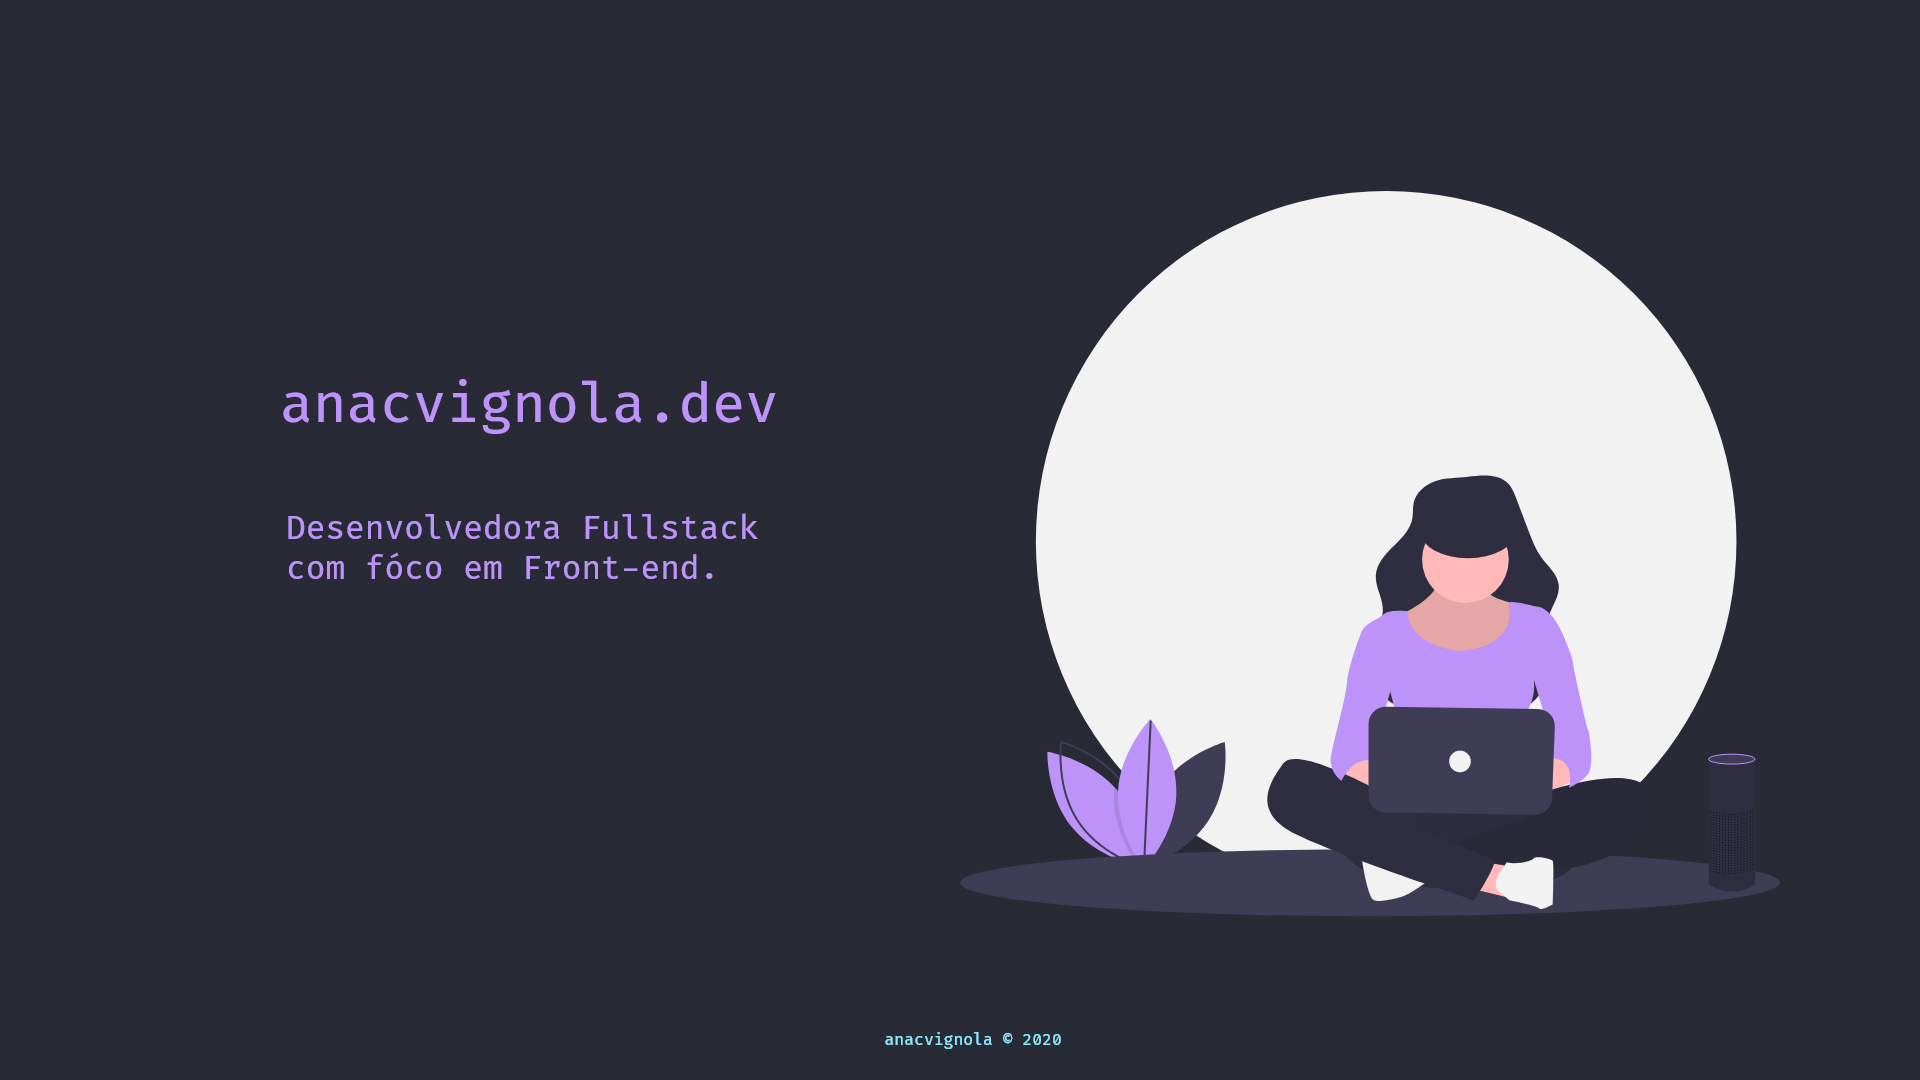
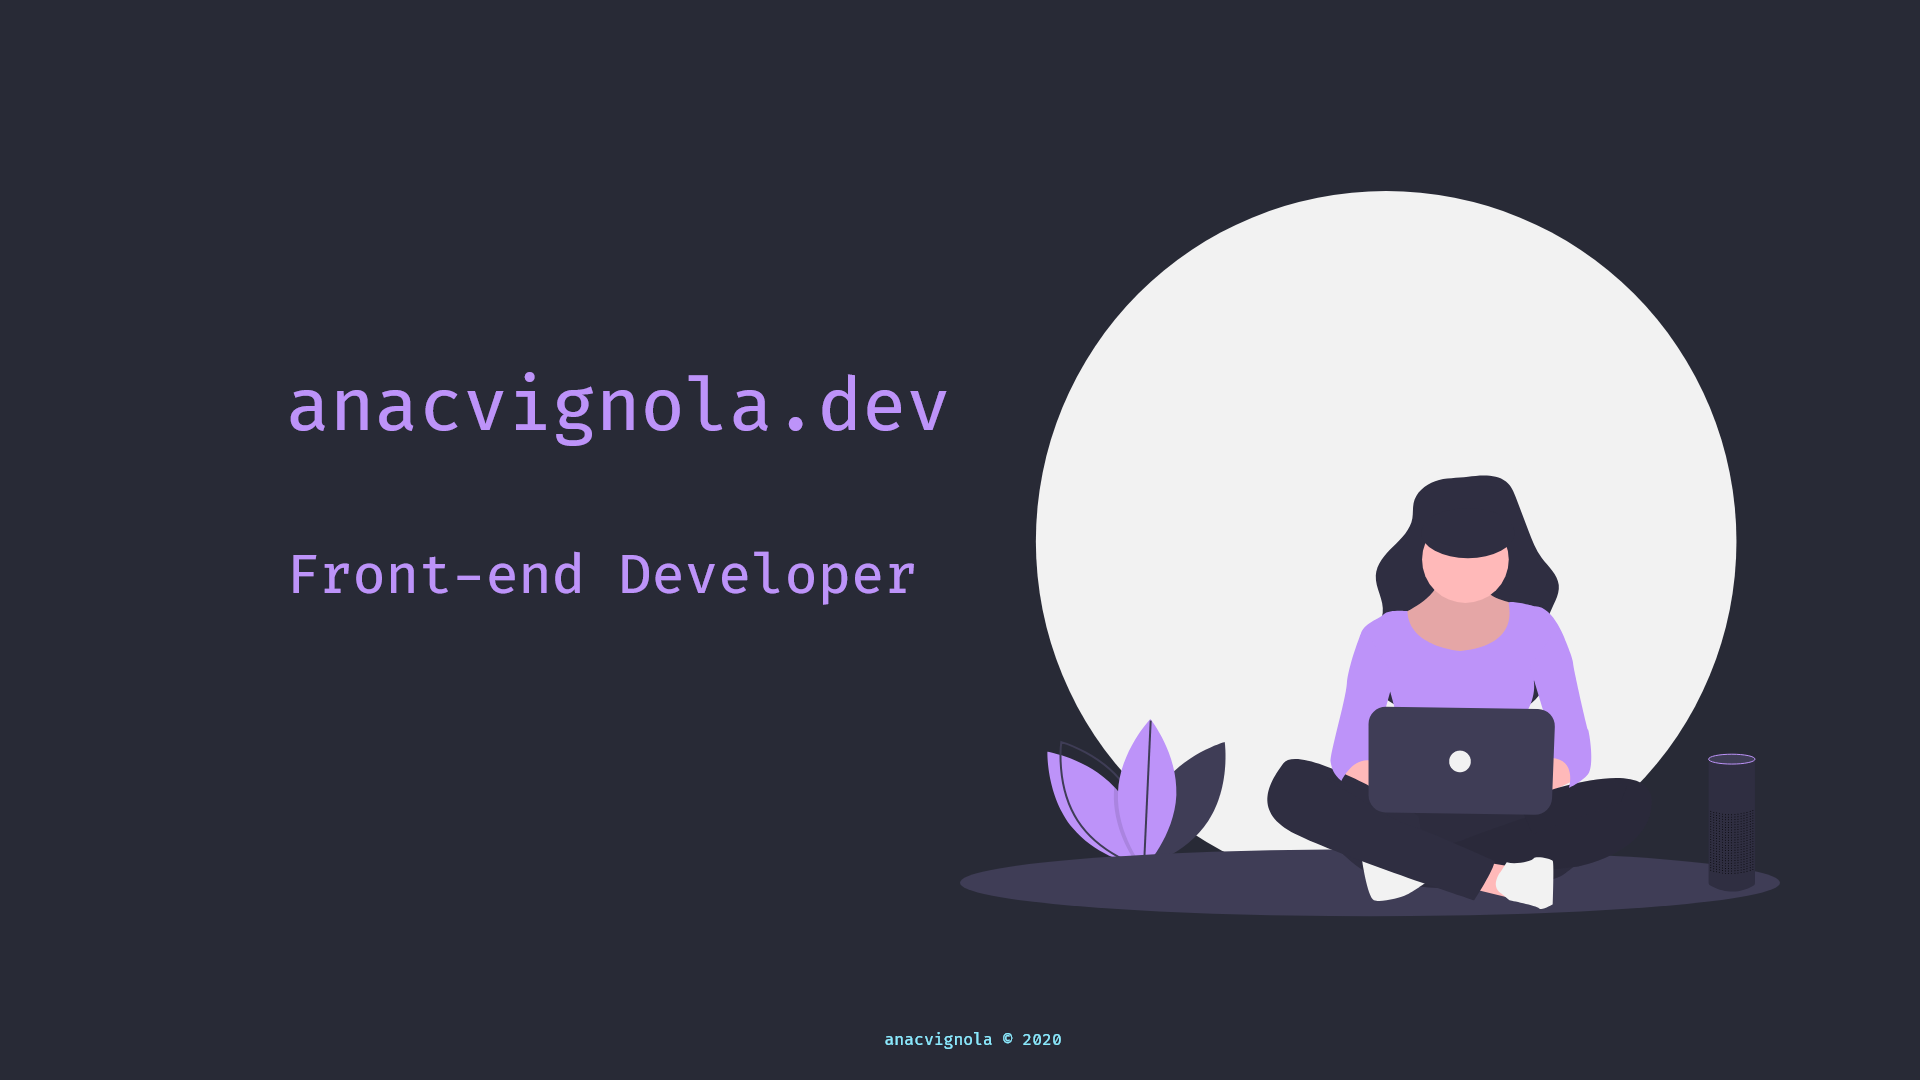
change texts and text styles

Changed region(s): [[0.125, 0.4583, 0.4688, 0.55], [0.125, 0.3361, 0.5, 0.4278]]

diff --git a/src/components/Presentation/index.js b/src/components/Presentation/index.js
@@ -13,8 +13,7 @@ const Presentation = () => {
         <Text>
           <p className="medium">
               Olá, meu nome é <span className="large">Ana</span> e eu sou
-            <span className="large"> Desenvolvedora Fullstack </span>
-              com fóco em <span className="large">Front-end</span>.
+            <span className="large"><br/> Front-end developer</span>.
           </p>
           <SocialLinnks />
         </Text>

diff --git a/src/components/About/index.js b/src/components/About/index.js
@@ -20,7 +20,7 @@ const About = () => {
   return (
     <Container id="about">
       <Text>
-        <h3>Olá, </h3>
+        <h3>Sobre mim</h3>
         <p>
           Me chamo Ana Claudia Vignola e minha área de atuação é TI, desde os
           meus 14 anos trabalhei na área de suporte e infraestrutura, porém em

diff --git a/gatsby-config.js b/gatsby-config.js
@@ -3,7 +3,7 @@ require('dotenv').config();
 module.exports = {
   siteMetadata: {
     title: `anacvignola.dev`,
-    description: `Full stack developer`,
+    description: `Front-end developer`,
     author: `Ana Claudia Vignola`,
     siteUrl: `https://anacvignola.dev/`,
     socialLinks: {

diff --git a/src/components/Presentation/styles.js b/src/components/Presentation/styles.js
@@ -51,6 +51,12 @@ export const Text = styled.div`
     font-size: 1.5rem;
   }
 
+  ${media.lessThan("large")`
+      br {
+        display: none;
+      }
+  `}
+
   ${media.lessThan("medium")`
       width: 100%;
 

diff --git a/src/components/About/styles.js b/src/components/About/styles.js
@@ -44,6 +44,11 @@ export const Text = styled.p`
   flex-direction: column;
   width: 50%;
 
+  h3 {
+    color: #bd93f9;
+    font-size: 1.4rem;
+  }
+
   p {
     margin: 1rem 0;
 
